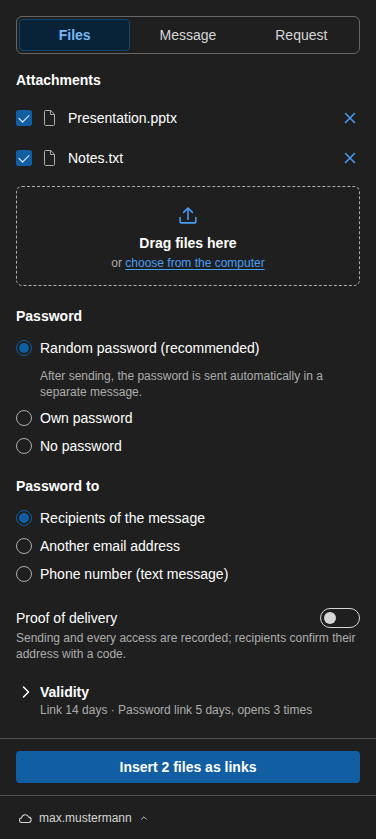
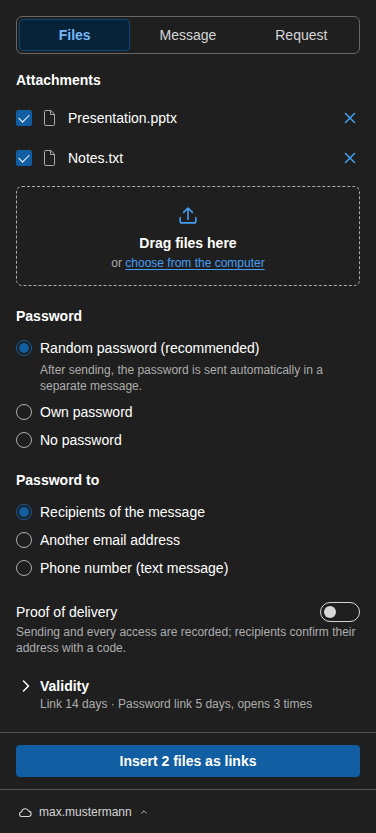
Hints: no extra gap when a hidden element sits above them (#118)
* Hints: no extra gap when a hidden element sits above them

The gaps meant for a visible rules list (own password) or a visible address
field ("Kennwort an", "Erneut senden an") also applied while those were
hidden – a hidden element is still the CSS neighbour. Now only
.rules:not([hidden]) / .channel-group:not([hidden]) add them, so a hint sits
as close to its option as below it, in "Senden" (all three kinds) and in
"Verlauf".

* README pictures of the pane from CI (readme-pictures)

---------

diff --git a/addin/src/taskpane/taskpane.css b/addin/src/taskpane/taskpane.css
@@ -289,14 +289,16 @@ a:hover { color: var(--brand-fg-hover); text-decoration: underline; }
 /* Like the hint under "Kennwort an": right below its option, the same gap above and below. */
 .password-field > #password-hint { margin-top: 0; margin-bottom: 4px; }
 /* After the rules of an own password (not right below an option) the hint needs the same gap as below it. */
-.password-field > .rules + #password-hint { margin-top: 6px; }
+.password-field > .rules:not([hidden]) + #password-hint { margin-top: 6px; } /* a hidden list is still the neighbour */
 .proof-row { margin-top: 20px; }
 /* "Kennwort an": radio buttons like the password choices; the address or number field and its hint indented below the
    chosen option (the width of the dot plus its gap). */
 .channel-options .channel-group, .channel-options > .hint { margin-left: 24px; }
 .channel-options .channel-group { margin-top: 2px; margin-bottom: 4px; }
 /* The same gap above (to the field) and below (to the next way), like the hint under the password. */
-.channel-options > .hint { margin-top: 4px; margin-bottom: 2px; }
+.channel-options > .hint { margin-top: 0; margin-bottom: 4px; }
+/* … with 4px only when the address or number field is shown above it (a hidden field is still a neighbour). */
+.channel-options > .channel-group:not([hidden]) ~ .hint { margin-top: 4px; margin-bottom: 2px; }
 .inline-row { display: grid; grid-template-columns: 7em minmax(0, 1fr); align-items: center; column-gap: 12px; }
 .inline-label { color: var(--fg1); }
 .visually-hidden { position: absolute; width: 1px; height: 1px; overflow: hidden; clip: rect(0 0 0 0); white-space: nowrap; }
@@ -596,7 +598,8 @@ button.share-title:focus-visible { outline: 2px solid var(--focus); outline-offs
 .password-panel .label:first-child { margin-top: 0; }
 .password-panel .hint { margin-bottom: 8px; }
 /* "Erneut senden an": the hint under the chosen way as in "Senden" – not 8px more before the next way. */
-.password-panel .channel-options > .hint { margin-bottom: 2px; }
+.password-panel .channel-options > .hint { margin-bottom: 4px; }
+.password-panel .channel-options > .channel-group:not([hidden]) ~ .hint { margin-bottom: 2px; }
 .password-panel .channel-options + .send-password { margin-top: 8px; }
 .share-actions .show-password[aria-expanded="true"] { background: var(--bg1-pressed); color: var(--fg1); }
 
